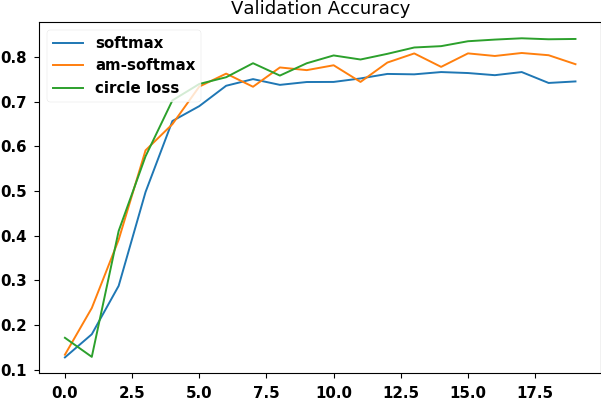
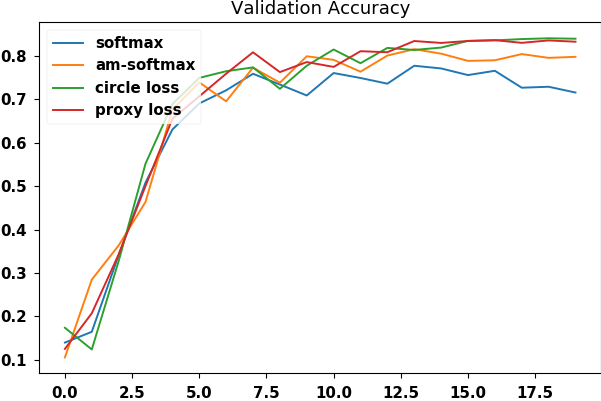
Proxy Anchor Loss

diff --git a/circle_loss.py b/circle_loss.py
@@ -50,8 +50,45 @@ class SparseAmsoftmaxLoss(kls.Loss):
 class AmsoftmaxLoss(SparseAmsoftmaxLoss):
 
   def call(self, y_true: tf.Tensor, y_pred: tf.Tensor) -> tf.Tensor:
-    y_pred = (y_true * (y_pred - self.margin) + (1-y_true) * y_pred) * self.scale
+    y_pred = (y_true * (y_pred - self.margin) + (1 - y_true) * y_pred) * self.scale
     return tf.nn.softmax_cross_entropy_with_logits(y_true, y_pred)
+
+
+class ProxyAnchorLoss(kls.Loss):
+
+  def __init__(self,
+               gamma: int = 32,
+               margin: float = 0.1,
+               batch_size: int = None,
+               reduction='auto',
+               name=None):
+    super().__init__(reduction=reduction, name=name)
+    self.gamma = gamma
+    self.margin = margin
+    if batch_size:
+      self.batch_size = batch_size
+      self.batch_idxs = tf.expand_dims(
+          tf.range(0, batch_size, dtype=tf.int32), 1)  # shape [batch,1]
+
+  def call(self, y_true: tf.Tensor, y_pred: tf.Tensor) -> tf.Tensor:
+    """ NOTE : y_pred must be cos similarity
+
+    Args:
+        y_true (tf.Tensor): shape [batch,ndim]
+        y_pred (tf.Tensor): shape [batch,ndim]
+
+    Returns:
+        tf.Tensor: loss
+    """
+    # The number of positive proxies
+    num_valid_proxies = tf.reduce_sum(tf.cast(tf.reduce_sum(
+        y_true, 0, keepdims=True) != 0, tf.float32))
+
+    # yapf: disable
+    y_pred = ((y_true * (y_pred - self.margin) / num_valid_proxies) +
+              ((1 - y_true) * (y_pred - self.margin) / tf.cast(tf.shape(y_true)[-1], tf.float32))) * self.gamma
+    # yapf: enable
+    return tf.nn.softmax_cross_entropy_with_logits(labels=y_true, logits=y_pred)
 
 
 class CircleLoss(kls.Loss):
@@ -76,11 +113,11 @@ class CircleLoss(kls.Loss):
 
   def call(self, y_true: tf.Tensor, y_pred: tf.Tensor) -> tf.Tensor:
     """ NOTE : y_pred must be cos similarity
-    
+
     Args:
         y_true (tf.Tensor): shape [batch,ndim]
         y_pred (tf.Tensor): shape [batch,ndim]
-    
+
     Returns:
         tf.Tensor: loss
     """
@@ -89,7 +126,7 @@ class CircleLoss(kls.Loss):
     # yapf: disable
     y_true = tf.cast(y_true, tf.float32)
     y_pred = (y_true * (alpha_p * (y_pred - self.Delta_p)) +
-          (1-y_true) * (alpha_n * (y_pred - self.Delta_n))) * self.gamma
+              (1 - y_true) * (alpha_n * (y_pred - self.Delta_n))) * self.gamma
     # yapf: enable
     return tf.nn.softmax_cross_entropy_with_logits(labels=y_true, logits=y_pred)
 
@@ -98,11 +135,11 @@ class SparseCircleLoss(CircleLoss):
 
   def call(self, y_true: tf.Tensor, y_pred: tf.Tensor) -> tf.Tensor:
     """ NOTE : y_pred must be cos similarity
-    
+
     Args:
         y_true (tf.Tensor): shape [batch,ndim]
         y_pred (tf.Tensor): shape [batch,ndim]
-    
+
     Returns:
         tf.Tensor: loss
     """
@@ -151,11 +188,11 @@ class PairCircleLoss(CircleLoss):
 
   def call(self, sp: tf.Tensor, sn: tf.Tensor) -> tf.Tensor:
     """ use within-class similarity and between-class similarity for loss
-    
+
     Args:
         sp (tf.Tensor): within-class similarity  shape [batch, K]
         sn (tf.Tensor): between-class similarity shape [batch, L]
-    
+
     Returns:
         tf.Tensor: loss
     """

diff --git a/main.py b/main.py
@@ -1,7 +1,7 @@
 import tensorflow as tf
 k = tf.keras
 kl = tf.keras.layers
-from circle_loss import SparseAmsoftmaxLoss, SparseCircleLoss, CircleLoss, PairCircleLoss
+from circle_loss import SparseAmsoftmaxLoss, SparseCircleLoss, CircleLoss, PairCircleLoss, ProxyAnchorLoss
 import matplotlib.pyplot as plt
 import cycler
 import numpy as np
@@ -28,10 +28,10 @@ if __name__ == "__main__":
 
   batch_size = 500  # Note Must be divisible by 50000
   tf.random.set_seed(10101)
-
+  np.random.seed(10101)
   (train_x, train_y), (test_x, test_y) = k.datasets.cifar10.load_data()
-  train_x = ((train_x-127.5) / 127.5).astype('float32')
-  test_x = ((test_x-127.5) / 127.5).astype('float32')
+  train_x = ((train_x - 127.5) / 127.5).astype('float32')
+  test_x = ((test_x - 127.5) / 127.5).astype('float32')
 
   softmax_model: k.Model = k.Sequential([
       kl.Input(shape=(32, 32, 3)),
@@ -63,6 +63,7 @@ if __name__ == "__main__":
   ])
   ams_model = k.models.clone_model(softmax_model)
   circle_model = k.models.clone_model(softmax_model)
+  proxy_model = k.models.clone_model(softmax_model)
 
   softmax_model.compile(
       loss=k.losses.SparseCategoricalCrossentropy(from_logits=True),
@@ -78,6 +79,11 @@ if __name__ == "__main__":
       loss=SparseCircleLoss(batch_size=batch_size),
       optimizer=k.optimizers.Adam(),
       metrics=[k.metrics.SparseCategoricalAccuracy('acc')])
+
+  proxy_model.compile(
+      loss=ProxyAnchorLoss(batch_size=batch_size),
+      optimizer=k.optimizers.Adam(),
+      metrics=[k.metrics.CategoricalAccuracy('acc')])
 
   if not tf.io.gfile.exists('softmax_loss.h5'):
     softmax_history = softmax_model.fit(
@@ -120,6 +126,21 @@ if __name__ == "__main__":
         circle_history.epoch,
         circle_history.history['val_acc'],
         label="circle loss")
+  else:
+    circle_model.load_weights('circle_loss.h5')
+
+  if not tf.io.gfile.exists('proxy_loss.h5'):
+    proxy_history = proxy_model.fit(
+        x=train_x,
+        y=tf.keras.utils.to_categorical(train_y, 10),
+        batch_size=batch_size,
+        epochs=20,
+        validation_data=(test_x, tf.keras.utils.to_categorical(test_y, 10)))
+    proxy_model.save('proxy_loss.h5')
+    plt.plot(
+        proxy_history.epoch,
+        proxy_history.history['val_acc'],
+        label="proxy loss")
     plt.legend(loc='upper left')
     plt.title('Validation Accuracy')
     plt.tight_layout()
@@ -127,10 +148,13 @@ if __name__ == "__main__":
         'benchmark.png', transparent=True, bbox_inches='tight', pad_inches=0)
     plt.show()
   else:
-    circle_model.load_weights('circle_loss.h5')
+    proxy_model.load_weights('proxy_loss.h5')
+
   print('Softmax evaluate:')
   softmax_model.evaluate(test_x, test_y, batch_size=batch_size)
   print('Am Softmax evaluate:')
   ams_model.evaluate(test_x, test_y, batch_size=batch_size)
   print('Circle Loss evaluate:')
   circle_model.evaluate(test_x, test_y, batch_size=batch_size)
+  print('Proxy Loss evaluate:')
+  proxy_model.evaluate(test_x, tf.keras.utils.to_categorical(test_y, 10), batch_size=batch_size)

diff --git a/Readme.md b/Readme.md
@@ -4,6 +4,10 @@ An unofficial Tensorflow2 implementation of the paper [Circle Loss: A Unified Pe
 
 The interpretation of this paper is recorded in [this blog](https://zhen8838.github.io/2020/04/07/circle-loss/)
 
+Add implementation of the paper [Proxy Anchor Loss for Deep Metric Learning](https://arxiv.org/abs/2003.13911)
+
+The interpretation of this paper is recorded in [this blog](https://zhen8838.github.io/2020/06/17/proxy-anchor/)
+
 - [x] Support class-level labels
 - [x] Support Sparse class-level labels
 - [x] Support pair-wise labels
